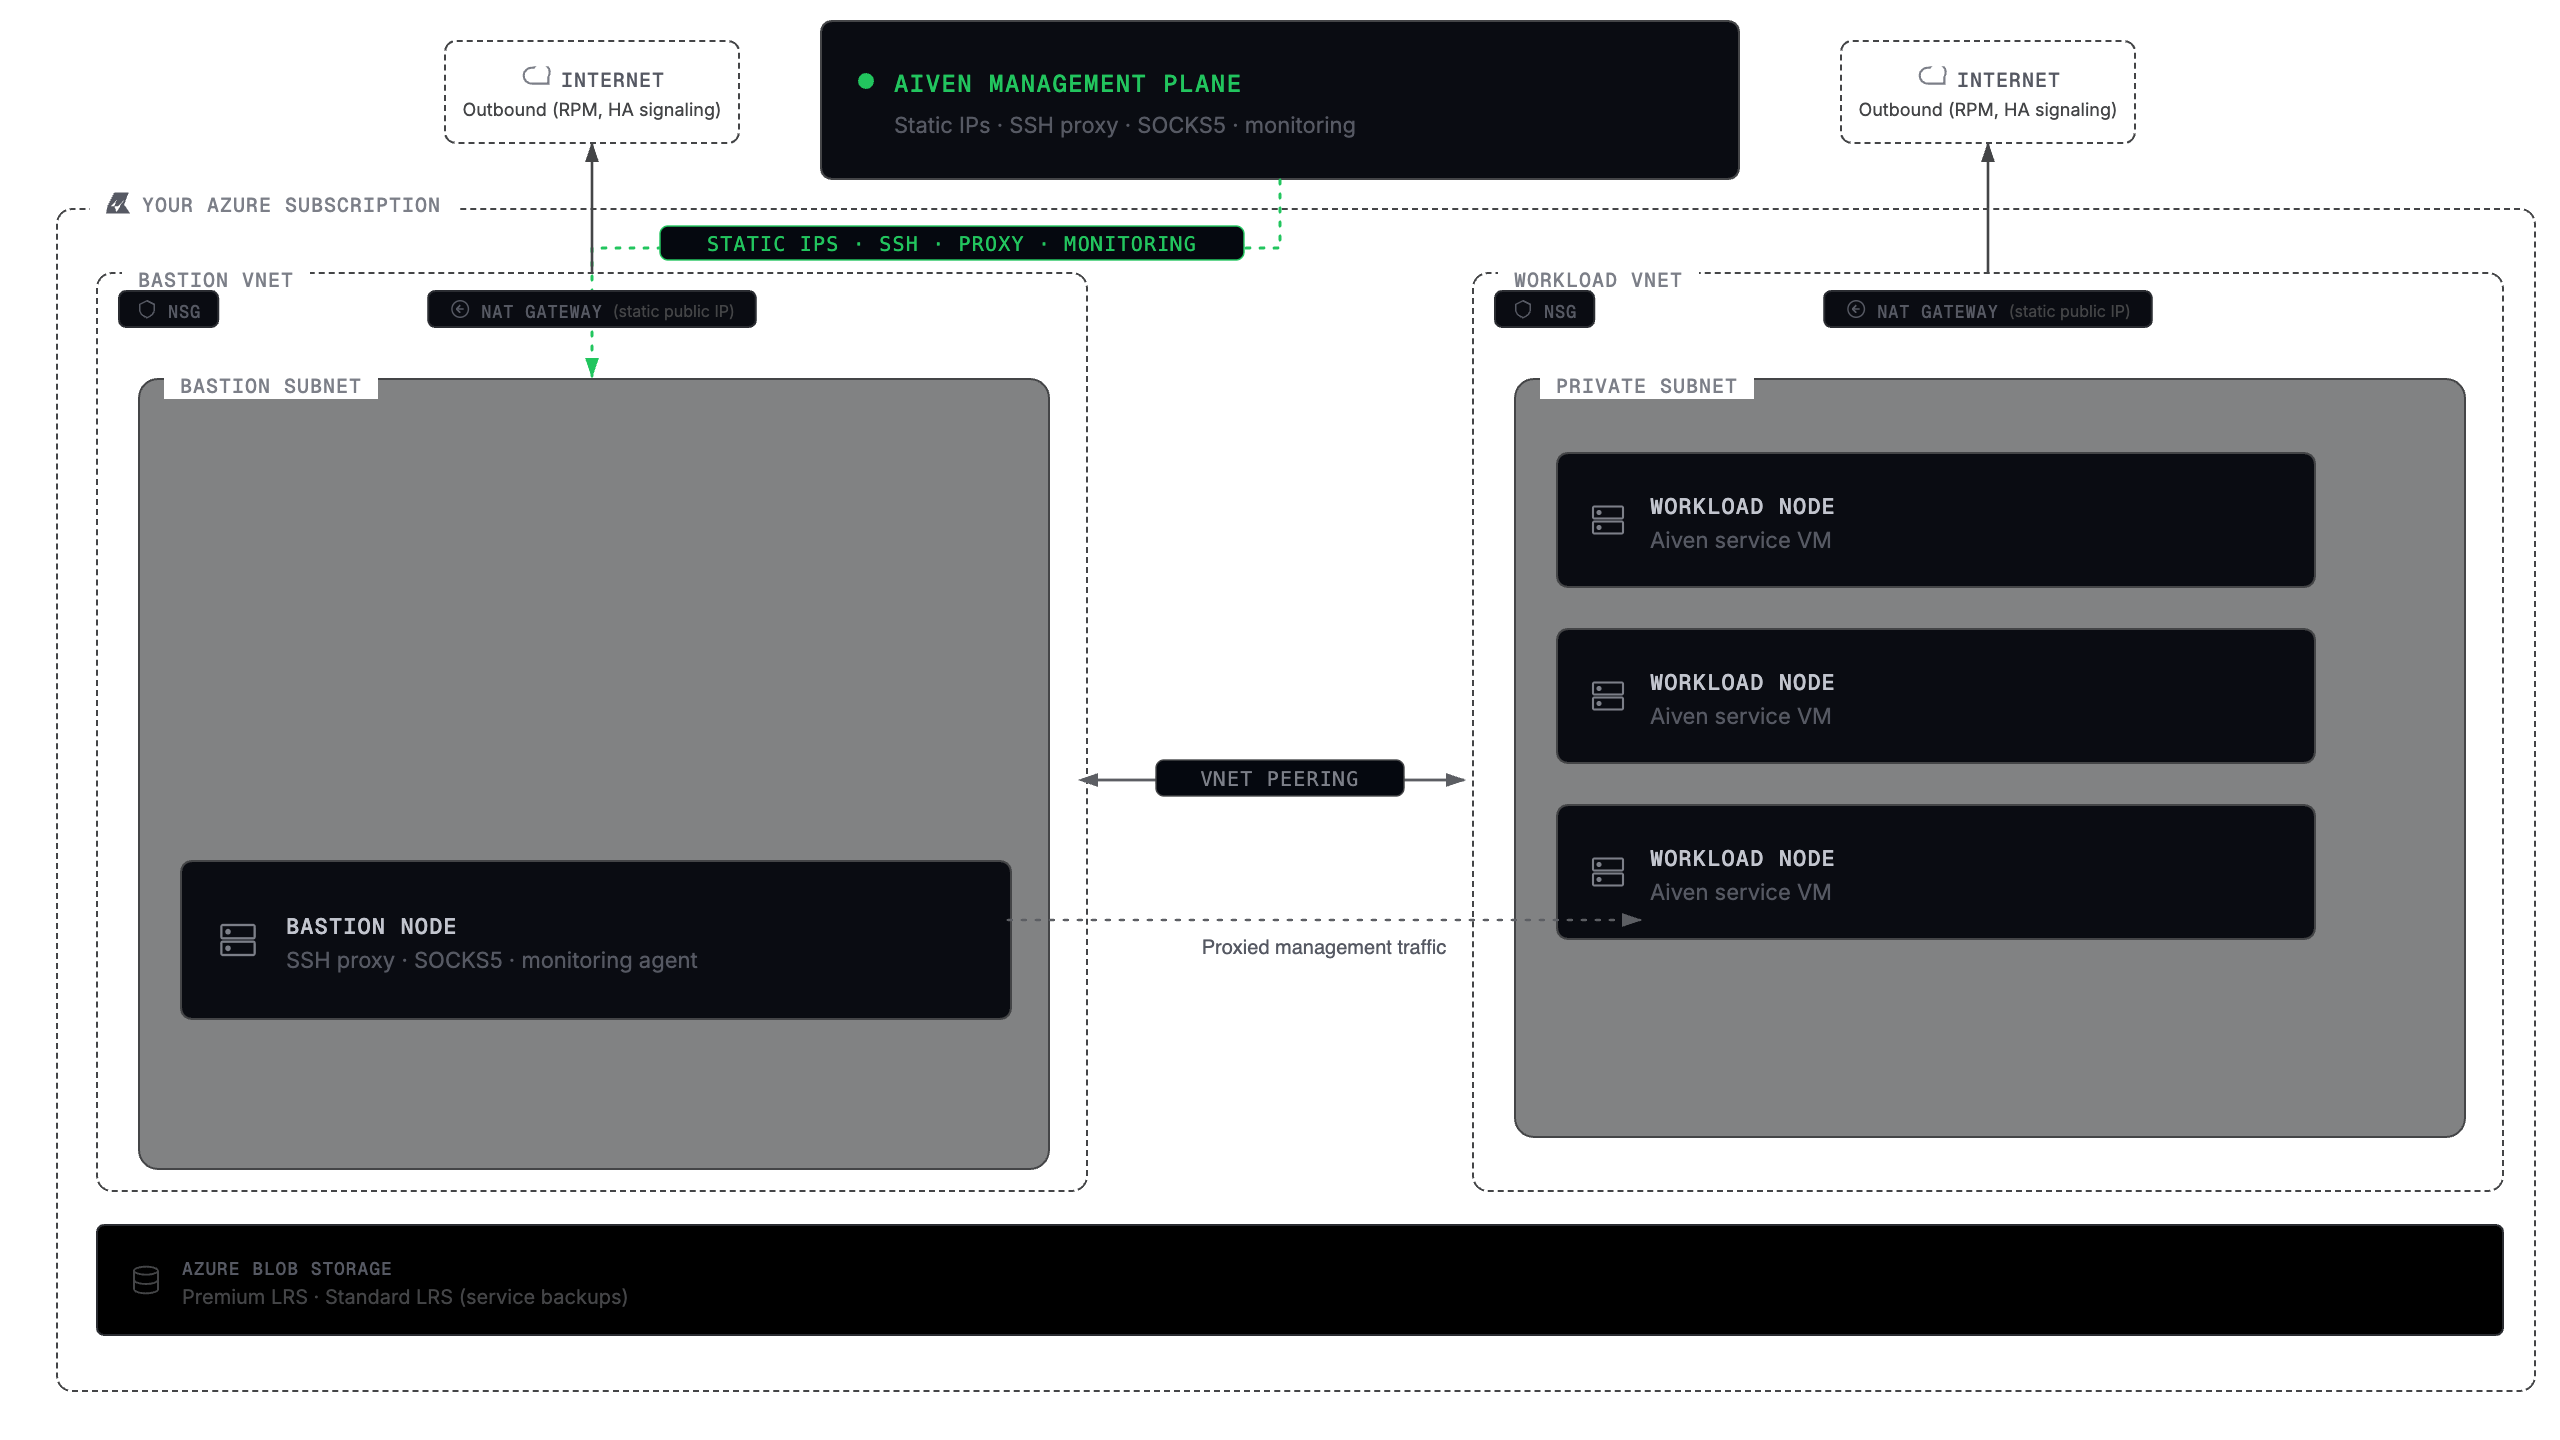
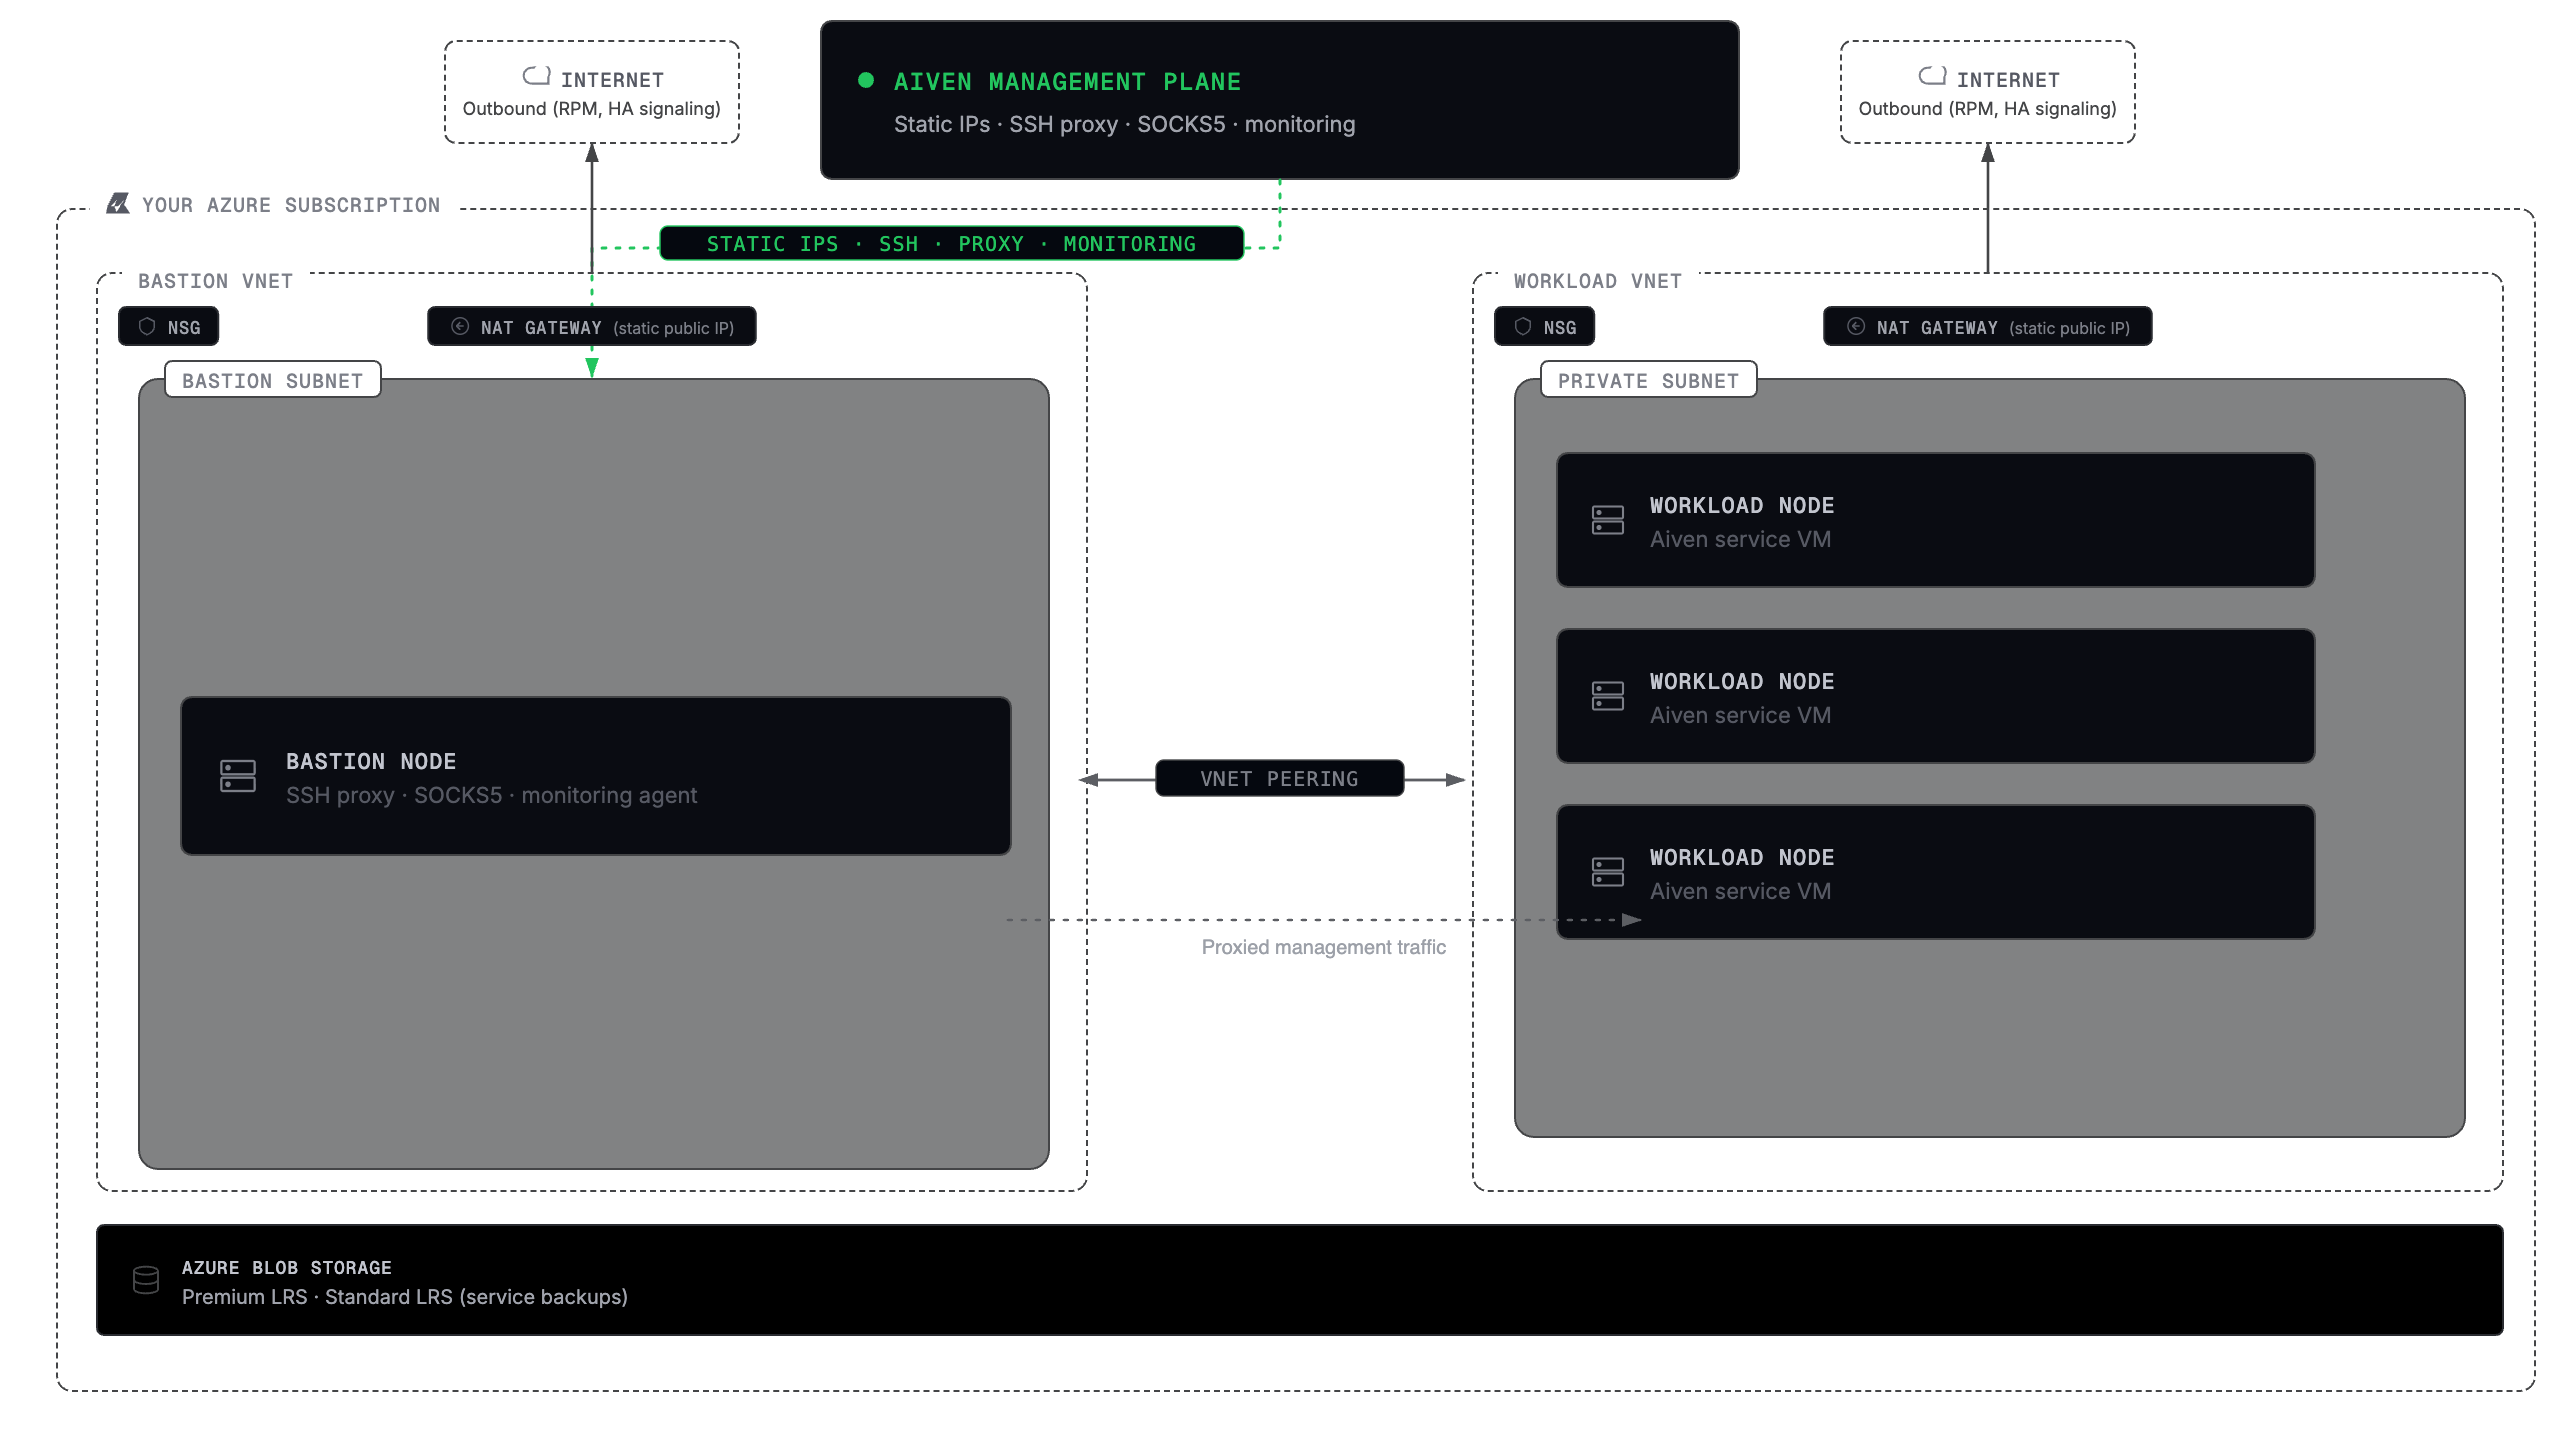
public diagram

diff --git a/docs/platform/howto/byoc/create-cloud/create-azure-custom-cloud.md b/docs/platform/howto/byoc/create-cloud/create-azure-custom-cloud.md
@@ -11,11 +11,12 @@ Create a [custom cloud](/docs/platform/concepts/byoc) for BYOC in your Aiven org
 
 Azure supports two deployment models:
 
-- **Standard** (private): Two separate VNets (Bastion and Workload) connected via VNet
-  peering. Aiven routes management traffic through a bastion host proxy, and workload
-  nodes are not accessible from the public internet.
-- **Public**: A single Workload VNet with publicly addressed service VMs. Aiven connects
-  to service nodes directly over the public internet.
+- **Standard** (`standard`): Two separate VNets (Bastion and Workload) connected via
+  VNet peering. Aiven routes management traffic through a bastion host proxy, and
+  workload nodes are not accessible from the public internet.
+- **Standard public** (`standard_public`): A single Workload VNet with publicly
+  addressed service VMs. Aiven connects to service nodes directly over the public
+  internet.
 
 To configure a custom cloud in your Aiven organization and prepare your Azure
 subscription so that Aiven can access it:
@@ -79,7 +80,7 @@ subscription so that Aiven can access it:
    - `DEPLOYMENT_MODEL` with the deployment model to use:
      - `standard`: Two VNets (Bastion and Workload) connected via VNet peering.
        Workload nodes are not accessible from the public internet.
-     - `public`: A single Workload VNet with publicly addressed service VMs.
+     - `standard_public`: A single Workload VNet with publicly addressed service VMs.
    - `CLOUD_REGION_NAME` with the name of an Azure region where to create your custom
      cloud:
      1. Pick a region from the **Cloud** column in the supported
@@ -210,7 +211,7 @@ subscription so that Aiven can access it:
         - **VNet peering** between the bastion and workload networks
         - **Network security groups (NSGs)** controlling ingress and egress
         - **NAT gateways** for outbound internet access from both networks
-      - For the `public` deployment model:
+      - For the `standard_public` deployment model:
         - A **Workload VNet** with a single subnet for service VMs
         - A **network security group (NSG)** allowing all public inbound TCP and UDP
           traffic to workload nodes

diff --git a/docs/platform/concepts/byoc.md b/docs/platform/concepts/byoc.md
@@ -13,6 +13,7 @@ import byocAwsPublic from "@site/static/images/content/figma/byoc-aws-public.png
 import byocGcpPrivate from "@site/static/images/content/figma/byoc-gcp-private.png";
 import byocGcpPublic from "@site/static/images/content/figma/byoc-gcp-public.png";
 import byocAzurePrivate from "@site/static/images/content/figma/byoc-azure-private.png";
+import byocAzurePublic from "@site/static/images/content/figma/byoc-azure-public.png";
 import byocHowItWorks from "@site/static/images/content/figma/byoc-how-it-works.png";
 import RelatedPages from "@site/src/components/RelatedPages";
 import LimitedBadge from "@site/src/components/Badges/LimitedBadge";
@@ -313,6 +314,8 @@ repositories).
 
 </TabItem>
 <TabItem value="8" label="Azure BYOC public">
+
+<img src={byocAzurePublic} className="centered zoomable" alt="BYOC Azure public architecture" width="100%" />
 
 In the Azure public deployment model, a Virtual Network (**Workload VNet**) for your
 Aiven services is created within a particular cloud region in your Azure subscription.
